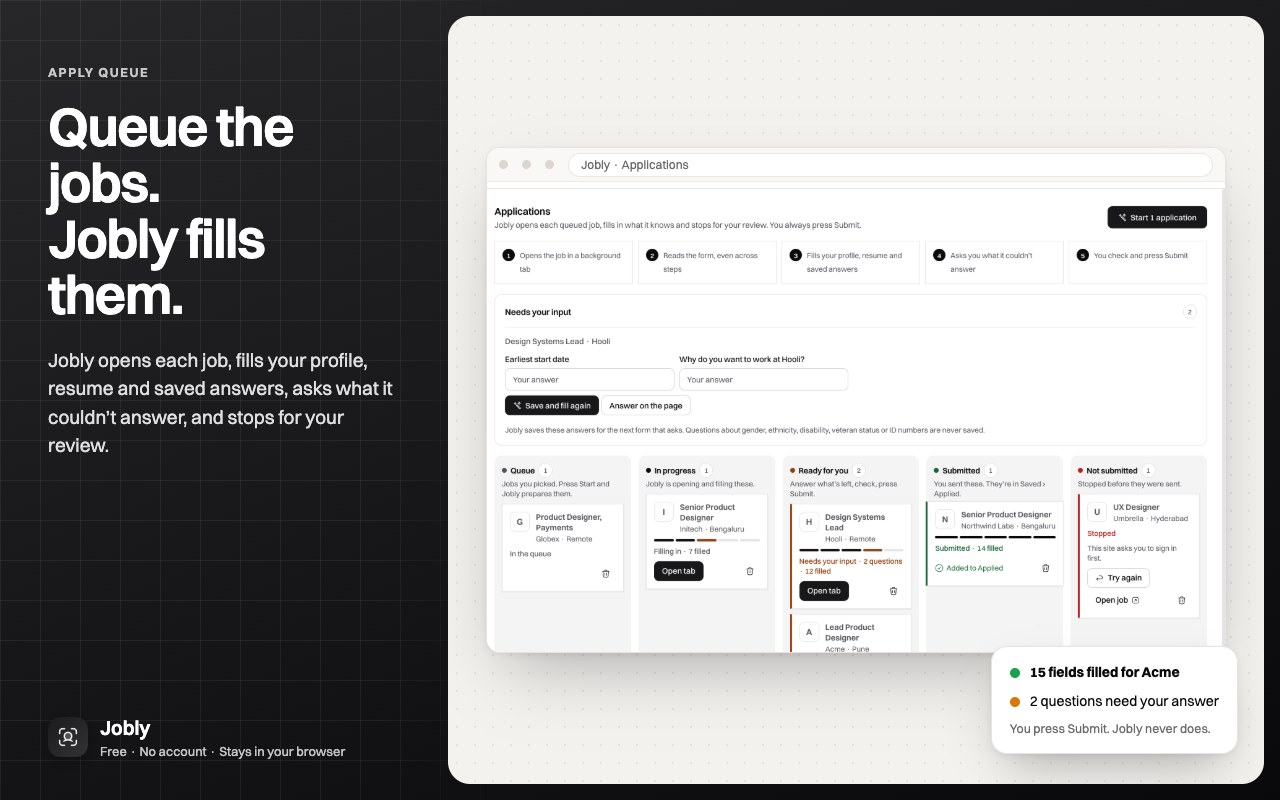
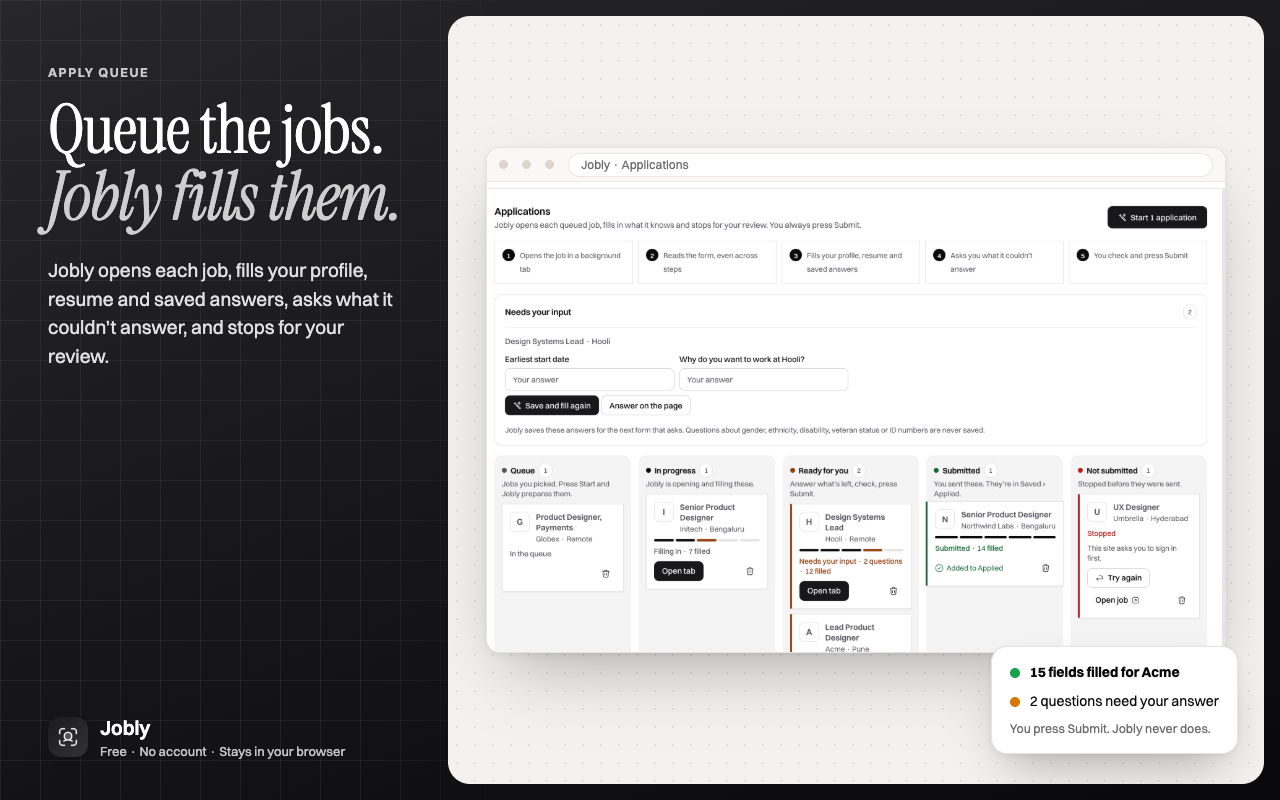
Store screenshots v1.5: Instrument Serif headlines, job check and cover letter designs
- Headlines in Instrument Serif (OFL, extension/e2e/fonts) with an italic phrase; body stays Switzer
- Slides: jobs with the job check, apply queue, apply assist, resume ATS check, cover letter designs
- Store listing: job check, follow-ups, letter designs, real-form apply queue, hiring-system site access
- Job check: with one scored part the score stays under 4, matching Worth a look

Changed region(s): [[0.0312, 0.125, 0.3125, 0.5625]]

diff --git a/extension/src/lib/jobCheck.ts b/extension/src/lib/jobCheck.ts
@@ -100,6 +100,6 @@ export function jobCheck(job: Job, prefs: Preferences | null, profile: Profile |
   score = Math.round(Math.max(1, Math.min(5, score)) * 10) / 10;
   let verdict: Verdict = deal.length ? 'skip' : score >= 4 ? 'apply' : score >= 3 ? 'maybe' : 'skip';
   // One known part is not enough to say "Apply": the rest of the job is unknown
-  if (verdict === 'apply' && dims.length < 2) { verdict = 'maybe'; left.unshift('Only one part could be scored, so Jobly won’t say Apply yet'); }
+  if (verdict === 'apply' && dims.length < 2) { verdict = 'maybe'; score = Math.min(score, 3.9); left.unshift('Only one part could be scored, so Jobly won’t say Apply yet'); }
   return { score, verdict, dimensions: dims, flags, dealbreakers: deal, left };
 }

diff --git a/docs/store-listing-1.5.md b/docs/store-listing-1.5.md
@@ -6,6 +6,10 @@ Everything to paste into the Chrome Web Store developer dashboard, tab by tab. V
 
 - **Apply queue (new Applications page).** Add jobs to a queue. Press Start and Jobly opens each one in a background tab. It presses the page's own Apply link if the form is behind it, then fills the form from the profile, the resume file and saved answers. It lists the questions it couldn't answer under "Needs your input" and stops. The user checks the form and presses Submit, and the job moves to Applied. Jobly never presses Submit or Next, never signs in, and never creates accounts on hiring sites.
 - **Site access only when asked.** The queue needs to open the job sites in it. Chrome asks for access to just those sites when the user presses Start. This is the new optional `https://*/*` host permission; nothing is granted at install.
+- **Job check.** Click a job: a 1–5 score with a verdict (Apply, Worth a look, Skip) from role fit, pay, place and resume match. Unknowns are left out, red flags lower it, and the user's own dealbreakers are quoted as hard rules. Rules only, no AI.
+- **Follow-ups.** Saved › Applied shows which applications are due a follow-up (7 days after applying, then 7 days after each one), with a ready message to copy.
+- **Cover letter designs.** Letterhead, Sidebar, Banner and Plain, filled from the profile and the job (impact numbers, strengths, "where I could contribute"), saved as a designed PDF.
+- **Apply queue on real hiring systems.** It gets past a hiring system's choice box ("Apply manually"), hands sign-in and "check you're human" pages to the user, and keeps what it filled on pages that rebuild themselves. Tested on Greenhouse, Lever, Ashby and Workday forms.
 - **New Jobs page.** Filter pills, cleaner job cards with "Add to queue", and the chosen job open in a panel beside the list, with fit, details and the full description.
 - **Resume.**
   - 8 templates, all one column, so every one reads cleanly in an applicant tracking system. The new Engineer template is a classic tech resume.
@@ -94,15 +98,15 @@ Free. Learn more at https://jobly-88t.pages.dev
 
 ### Screenshot content
 
-The jobs in shot 1 are real listings from Jobly's job data. Everything else is made up: Ananya Rao is a demo profile, and the queued companies (Globex, Initech, Hooli, Acme, Northwind Labs, Umbrella) and the application form in shot 3 are demo pages.
+The jobs in shot 1 are real listings from Jobly's job data. Everything else is made up: Ananya Rao is a demo profile, and the queued companies (Globex, Initech, Hooli, Acme, Northwind Labs, Umbrella), the application form in shot 3 and Acme in shot 5 are demo pages. Headlines are set in Instrument Serif (SIL Open Font License, `extension/e2e/fonts/OFL.txt`).
 
 | # | File | Headline | What it shows |
 | --- | --- | --- | --- |
-| 1 | `1-jobs.png` | Fresh jobs, real posting dates. | The Jobs page: filter pills, job cards with Add to queue, the chosen job open beside the list |
+| 1 | `1-jobs.png` | Fresh jobs, checked before you apply. | The Jobs page with a job open in the side sheet: the job check, facts and description |
 | 2 | `2-apply-queue.png` | Queue the jobs. Jobly fills them. | Applications: Needs your input and the board from Queue to Submitted |
 | 3 | `3-apply-assist.png` | You approve. Jobly fills. You submit. | The apply assist panel on a demo application form |
 | 4 | `4-resume.png` | A resume that reads cleanly. | Resume: the ATS check, the score and the page |
-| 5 | `5-people.png` | Reach the people who hire. | People: who to look for at a company, and saved people |
+| 5 | `5-cover-letters.png` | Letters that look made for them. | Cover letters: the Sidebar design filled from the profile and a job |
 
 ### Additional fields
 
@@ -131,7 +135,7 @@ Jobly helps people find and apply for jobs: it lists recent jobs from company ca
 | `scripting` | Runs Jobly's packaged page-reading code and its packaged apply assist panel (assist.js). It runs in the active tab after the user clicks, and in apply-queue tabs on sites the user granted when pressing Start. Jobly has no content scripts that run on their own. |
 | `contextMenus` | Adds "Save this job to Jobly" to the page's right-click menu. |
 | Host `https://jobly-data.pages.dev/*` | Reads Jobly's public job list, published as static files. Nothing is sent to it except the request for those files. |
-| Optional host `https://*/*` | Requested only when the user presses Start on the apply queue, and only for the sites of the jobs in their queue (for example `https://boards.greenhouse.io/*`). Jobly opens those job pages in background tabs and fills the application form with the user's profile for them to check and submit. Nothing is granted at install, and no other site is accessed. |
+| Optional host `https://*/*` | Requested only when the user presses Start on the apply queue: the sites of the jobs in their queue, plus the common hiring systems a company's job page hands its form to (Workday, Greenhouse, Lever, Ashby, SmartRecruiters, iCIMS, Taleo, SuccessFactors and similar; the exact list is in `src/lib/atsOrigins.json`). Jobly opens those job pages in background tabs and fills the application form with the user's profile for them to check and submit. Nothing is granted at install, and no other site is accessed. |
 | Optional host `https://api.hunter.io/*` | Requested only when the user searches for contacts with their own Hunter API key. |
 | Optional host `https://api.search.brave.com/*` | Requested only when the user searches for public profiles with their own Brave Search API key. |
 | Optional host `https://api.apollo.io/*` | Requested only when the user looks up who works at a company with their own Apollo API key. |
